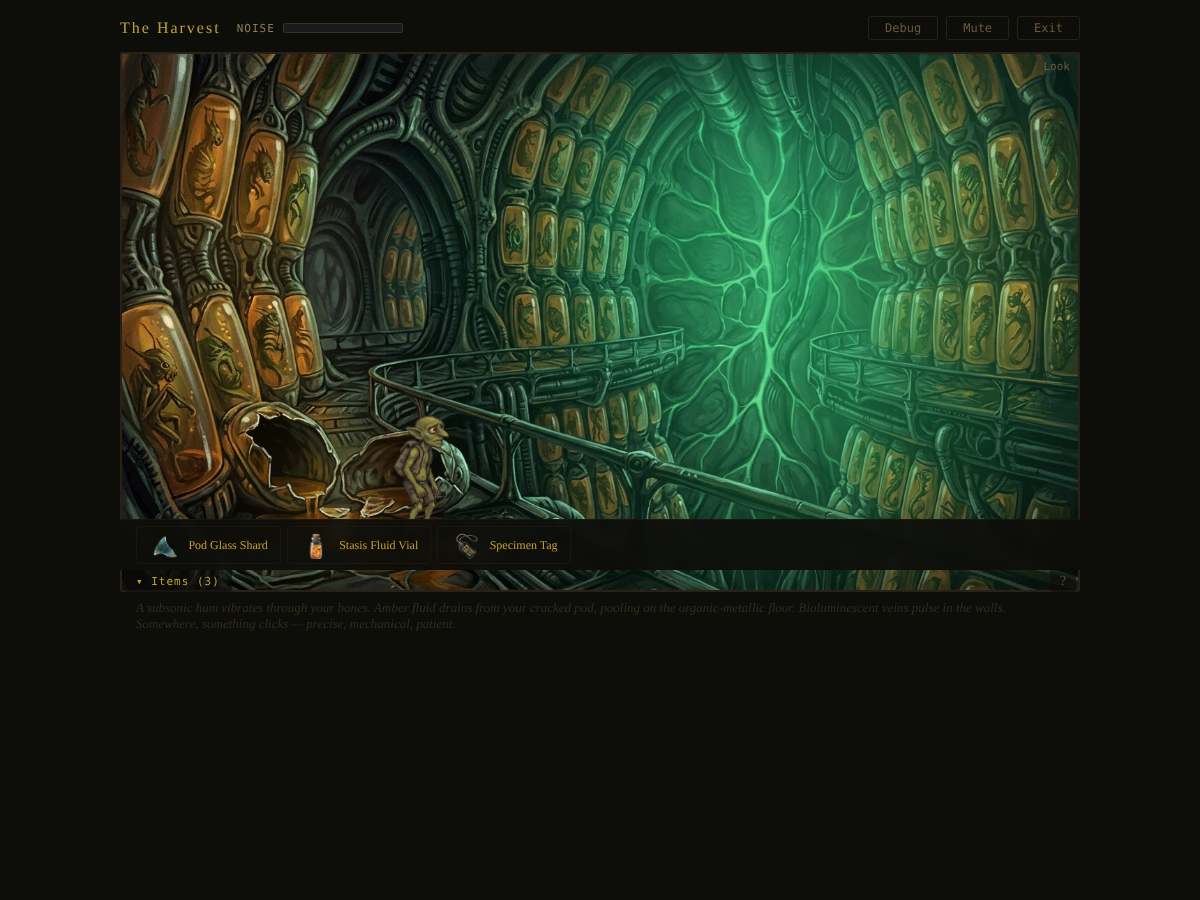
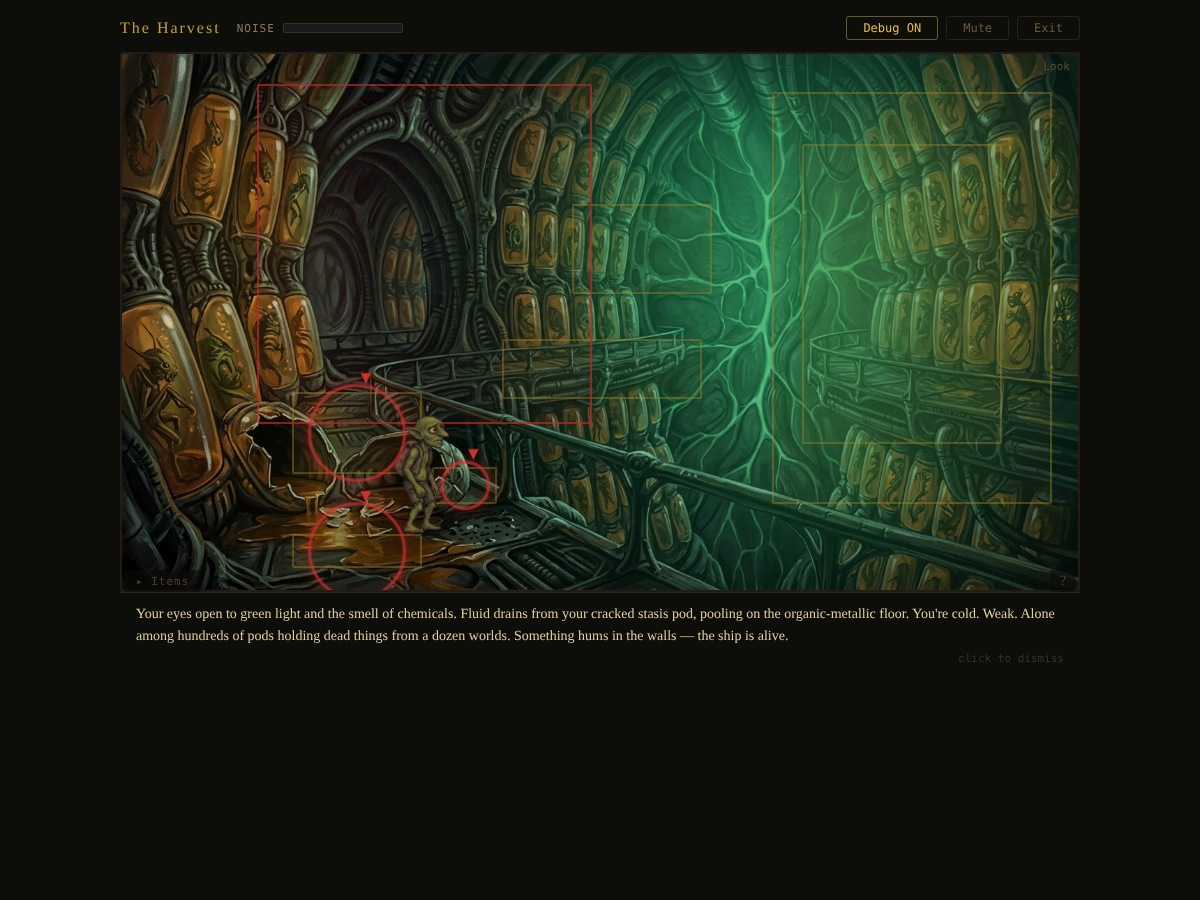
Add walkthrough highlight mode with red pulsing circles on key objects
Screenshots now show debug mode (gold/red hotspot borders) plus red
animated rings and bouncing arrows pointing to each room's key interactive
objects. GameView accepts walkthroughHighlights prop for the ring overlay.
ScenarioPlayer exposes __setHighlights() and __setDebug() for Playwright.

Claude-Session: https://claude.ai/code/session_013nLT1EESxv1f88E9FZS33G

diff --git a/client/src/components/GameView.tsx b/client/src/components/GameView.tsx
@@ -9,6 +9,7 @@ interface GameViewProps {
   activeVerb: string;
   selectedItem: string | null;
   debugMode: boolean;
+  walkthroughHighlights?: string[];
   onObjectClick: (objectId: string) => void;
   onEmptyClick?: () => void;
   onCycleVerb?: () => void;
@@ -113,6 +114,14 @@ const ANIMATION_KEYFRAMES = `
   0% { opacity: 1; }
   100% { opacity: 0; }
 }
+@keyframes wt-ring-pulse {
+  0%, 100% { transform: translate(-50%, -50%) scale(1); opacity: 0.9; }
+  50% { transform: translate(-50%, -50%) scale(1.15); opacity: 0.6; }
+}
+@keyframes wt-arrow-bob {
+  0%, 100% { transform: translateY(0); }
+  50% { transform: translateY(-6px); }
+}
 `;
 
 let stylesInjected = false;
@@ -130,6 +139,7 @@ export function GameView({
   activeVerb,
   selectedItem,
   debugMode,
+  walkthroughHighlights,
   onObjectClick,
   onEmptyClick,
   onCycleVerb,
@@ -328,6 +338,45 @@ export function GameView({
           </div>
         );
       })}
+
+      {/* Walkthrough highlight rings */}
+      {walkthroughHighlights && walkthroughHighlights.length > 0 && objects
+        .filter(obj => walkthroughHighlights.includes(obj.id))
+        .map(obj => {
+          const cx = (obj.position.x + obj.size.width / 2) * SCALE_X;
+          const cy = (obj.position.y + obj.size.height / 2) * SCALE_Y;
+          const radius = Math.max(obj.size.width * SCALE_X, obj.size.height * SCALE_Y) * 0.7;
+          return (
+            <div key={`wt-${obj.id}`} style={{ position: 'absolute', left: 0, top: 0, width: '100%', height: '100%', pointerEvents: 'none', zIndex: 15 }}>
+              <div style={{
+                position: 'absolute',
+                left: `${cx}px`,
+                top: `${cy}px`,
+                width: `${radius}px`,
+                height: `${radius}px`,
+                borderRadius: '50%',
+                border: '3px solid rgba(255, 60, 60, 0.9)',
+                boxShadow: '0 0 12px 4px rgba(255, 60, 60, 0.3), inset 0 0 8px 2px rgba(255, 60, 60, 0.1)',
+                animation: 'wt-ring-pulse 1.5s ease-in-out infinite',
+                pointerEvents: 'none',
+              }} />
+              <div style={{
+                position: 'absolute',
+                left: `${cx}px`,
+                top: `${cy - radius / 2 - 18}px`,
+                transform: 'translateX(-50%)',
+                fontSize: '18px',
+                lineHeight: '1',
+                animation: 'wt-arrow-bob 1s ease-in-out infinite',
+                pointerEvents: 'none',
+                filter: 'drop-shadow(0 1px 3px rgba(0,0,0,0.8))',
+              }}>
+                <span style={{ color: 'rgba(255, 60, 60, 0.95)' }}>&#x25BC;</span>
+              </div>
+            </div>
+          );
+        })
+      }
 
       {/* Room transition overlay */}
       {transitioning && (

diff --git a/client/src/components/ScenarioPlayer.tsx b/client/src/components/ScenarioPlayer.tsx
@@ -188,11 +188,14 @@ export function ScenarioPlayer({ scenario, onExit }: ScenarioPlayerProps) {
   const [muted, setMuted] = useState(false);
   const [debugMode, setDebugMode] = useState(false);
   const [inventoryOpen, setInventoryOpen] = useState(false);
+  const [walkthroughHighlights, setWalkthroughHighlights] = useState<string[]>([]);
   const audioRefs = useRef<HTMLAudioElement[]>([]);
 
   const engine = engineRef.current;
   (window as unknown as Record<string, unknown>).__engine = engine;
   (window as unknown as Record<string, unknown>).__bump = bump;
+  (window as unknown as Record<string, unknown>).__setHighlights = (ids: string[]) => { setWalkthroughHighlights(ids); };
+  (window as unknown as Record<string, unknown>).__setDebug = (on: boolean) => { setDebugMode(on); };
 
   useEffect(() => {
     if (!showIntro && !eyeOpen) {
@@ -486,6 +489,7 @@ export function ScenarioPlayer({ scenario, onExit }: ScenarioPlayerProps) {
           activeVerb={activeVerb}
           selectedItem={selectedItem}
           debugMode={debugMode}
+          walkthroughHighlights={walkthroughHighlights}
           onObjectClick={handleObjectClick}
           onEmptyClick={handleEmptyClick}
           onCycleVerb={handleCycleVerb}
